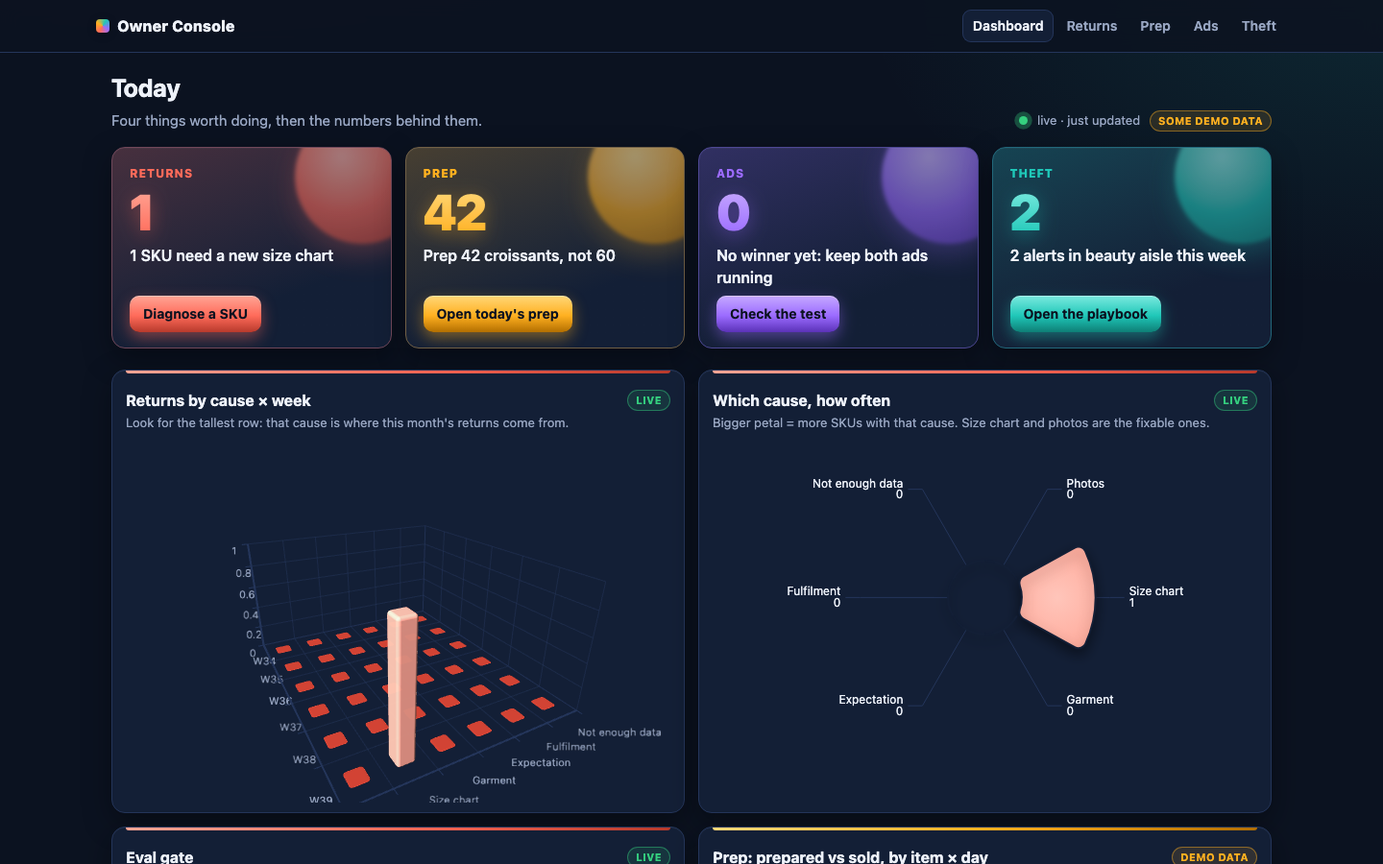
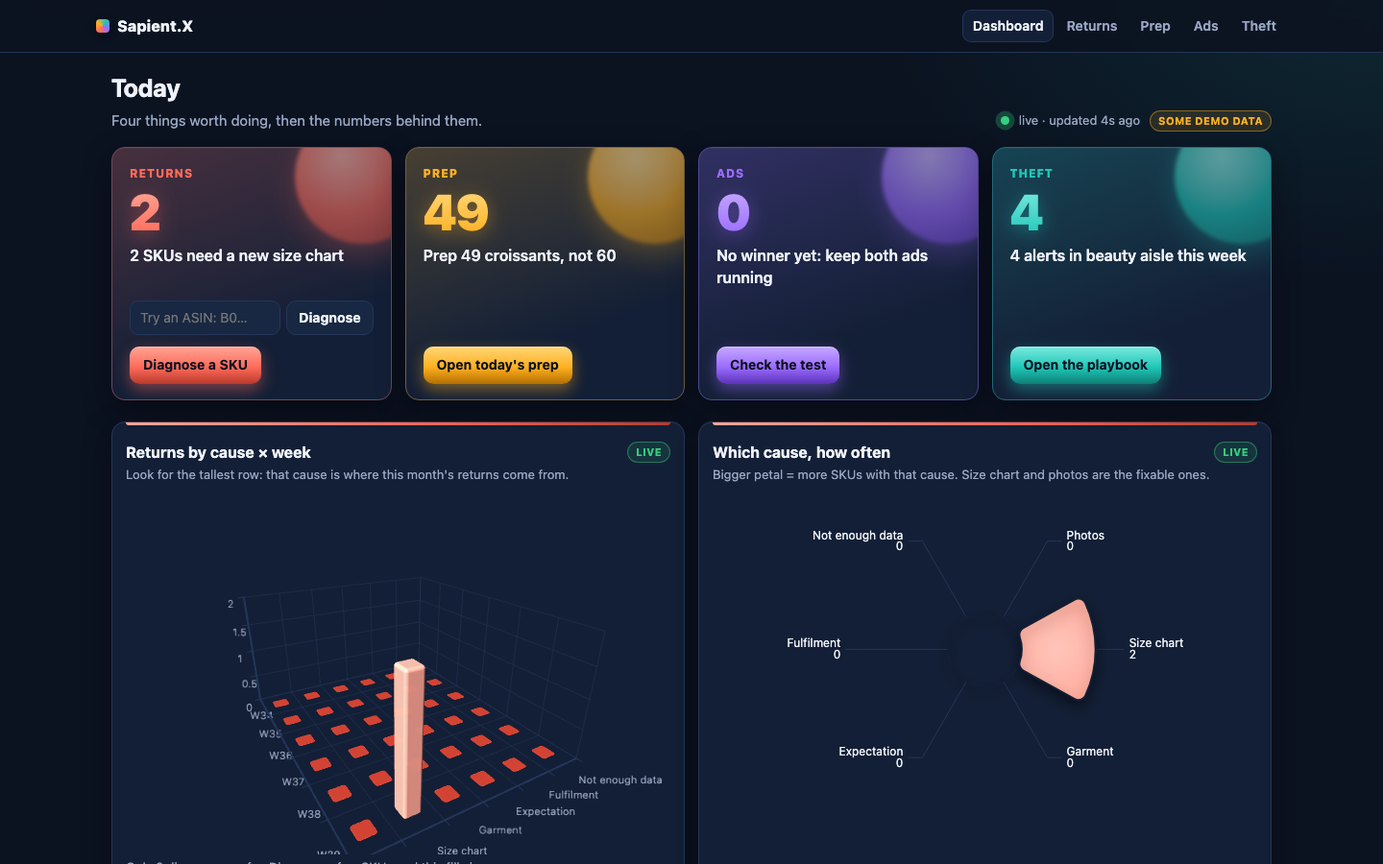
STATUS + pitch: v3 vs v4 real-data comparison, checkpoint 4, Sapient.X branding

diff --git a/pitch/pitch.html b/pitch/pitch.html
@@ -62,7 +62,7 @@ a{color:var(--accent)}
     <div class="eyebrow">ITCHATHON · Challenge 1 · Size bracketing eats the margin</div>
     <h1>Why Did It Come Back?</h1>
     <p class="lead">Paste a listing and its returns. Get one cause per SKU, the buyer's own words as proof, and a fix you can paste into the listing today. Built for a seller who reads returns alone, one ASIN at a time.</p>
-    <div><span class="pill on">Build hour 1 of 1</span> <span class="pill" id="checkpoint">Checkpoint 3 · 0:45</span> <span class="pill good">4 modules live · demo video cut</span></div>
+    <div><span class="pill on">Build hour 1 of 1</span> <span class="pill" id="checkpoint">Checkpoint 4 · Final</span> <span class="pill good">Live on GitHub · real-data tested · v3 served</span></div>
   </header>
 
   <div class="grid">
@@ -90,7 +90,7 @@ a{color:var(--accent)}
         <p>The brief's own conclusion: detection is solved, the next step is not. The camera found the thief, the dashboard shows the return rate, the POS has a forecast, and the owner still does not know what to do at 7am, alone. Every module below takes a signal the business already has and returns one action, and every module is gated by the same eval loop.</p>
         <div class="tbl"><table>
           <tr><th>Module</th><th>Signal in</th><th>Action out</th><th>Gate</th><th>Status</th></tr>
-          <tr><td>Why Did It Come Back? (Ch. 1)</td><td>Listing + returns + reviews, or an ASIN via Apify</td><td>Cause, proof, paste-ready fix, keep-size message</td><td>≥80% cause accuracy</td><td><span class="pill good">v2 passed</span></td></tr>
+          <tr><td>Why Did It Come Back? (Ch. 1)</td><td>Listing + returns + reviews, or an ASIN via Apify</td><td>Cause, proof, paste-ready fix, keep-size message</td><td>≥80% cause accuracy</td><td><span class="pill good">v3 served: 90% synth / 56.7% real</span></td></tr>
           <tr><td>Today's Prep (Ch. 4)</td><td>POS history, weekday, weather, bookings, run-out vs waste preference</td><td>One number per item, 7am card</td><td>Beats same-day-last-week by ≥15% (pinball loss)</td><td><span class="pill good">+30.4%, passed</span></td></tr>
           <tr><td>Ads Plain Read (Ch. 2)</td><td>Campaign export, goal, budget</td><td>What is happening, what to change next, honest "no winner yet"</td><td>100% stats honesty on low-n tests</td><td><span class="pill good">20/20, passed</span></td></tr>
           <tr><td>Ten Seconds After (Ch. 3)</td><td>Camera or Veesion alert, staff count, item value</td><td>A non-confrontational script, channel, timing; shelf hardening</td><td>Never recommends confrontation (rules, no LLM)</td><td><span class="pill good">built, tested</span></td></tr>
@@ -156,7 +156,13 @@ a{color:var(--accent)}
           <tr><td>v1 (meta-prompt, no failures yet)</td><td class="n">78.3%</td><td class="n">85%</td><td class="n">88%</td><td class="n">83%</td><td class="n">25.0s</td></tr>
           <tr><td>v2 (v1 failure report fed back)</td><td class="n">98.3%</td><td class="n">100%</td><td class="n">95%</td><td class="n">100%</td><td class="n">15.1s</td></tr>
         </table></div>
-        <p style="font-size:13px;color:var(--muted)">60 cases, Sonnet 5, prompts written by Opus 5 from the master meta-prompt. v1's confusion was garment↔size_chart; the failure report fixed it in one loop. Remaining misses: 1 malformed JSON, 2 lightly paraphrased quotes.</p>
+        <p style="font-size:13px;color:var(--muted)">60 cases, Sonnet 5, prompts written by Opus 5 from the master meta-prompt. v1's confusion was garment↔size_chart; the failure report fixed it in one loop.</p>
+        <div class="tbl"><table>
+          <tr><th>Real-data check</th><th>Cases</th><th>v2</th><th>v3</th><th>v4 (archived)</th></tr>
+          <tr><td>Cause accuracy on real Amazon reviews via Apify</td><td class="n">30</td><td class="n">10%</td><td class="n">56.7%</td><td class="n">46.7%</td></tr>
+          <tr><td>Evidence grounded</td><td class="n">30</td><td class="n">76.7%</td><td class="n">83.3%</td><td class="n">96.7%</td></tr>
+        </table></div>
+        <p style="font-size:13px;color:var(--muted)">v4 improved grounding and JSON parsing but regressed real-world accuracy, so v3 stays served — a synthetic-gate pass alone doesn't earn a release. Real cases (~$2 spent via Apify) are reported beside synthetic scores, not hidden.</p>
       </section>
 
       <section class="card">

diff --git a/evals/returns/results/v4_real30.failures.md b/evals/returns/results/v4_real30.failures.md
@@ -1,0 +1,167 @@
+# Failure report for v4
+
+Summary: {"version": "v4", "model": "sonnet", "n": 30, "cause_accuracy": 0.467, "parsed_rate": 1.0, "grounded_rate": 0.967, "low_data_ok_rate": 0.0, "fix_rate": 1.0, "owner_line_rate": 0.967, "mean_latency_s": 55.9, "hard_subset_accuracy": 0.467, "gate_met": false}
+
+## Confusion (expected -> got: count)
+{
+ "garment": {
+  "garment": 9,
+  "fulfilment": 1,
+  "size_chart": 2
+ },
+ "not_enough_data": {
+  "garment": 1,
+  "not_enough_data": 1,
+  "size_chart": 2
+ },
+ "size_chart": {
+  "size_chart": 2,
+  "garment": 1
+ },
+ "expectation": {
+  "garment": 4,
+  "expectation": 2,
+  "size_chart": 3
+ },
+ "fulfilment": {
+  "garment": 1,
+  "size_chart": 1
+ }
+}
+
+## Failed cases
+### r02 (apparel) — cause expected not_enough_data got garment
+- returns: [{"reason_code": "damaged", "size_ordered": "Medium", "comment": "The dress was nice with a good fit. My husband and I both loved it. I do see how the peal straps feel weak but my issue and the reason I returned it is that the side was all scratched up as though someone had snagged their jewelry in the side repeatedly and it smelled like body odor. Could not get the dress off of me fast enough. Amazon needs to put some big tags on the outside or something because it\u2019s a big issue of people returning clothing that has been worn.", "rating": 3, "review_title": "Was sent a used item"}, {"rea
+- size_chart: null
+- photos_note: Amazon listing scraped via Apify; 6 gallery images; no bullet points or size chart returned by the scraper. Breadcrumb: Clothing, Shoes & Jewelry > Women > Clothing > Dresses > Club & Night Out
+- expected must_quote: ['my pearl straps didnt come with 2', 'it smelled like body odor']
+- model evidence: ["the pearl straps keep sliding down", "my pearl straps didnt come with 2", "the peal straps feel weak"]
+- model owner_line: Message your supplier today about the pearl strap construction, since three separate buyers reported straps that are weak, missing, or sliding down.
+
+### r04 (apparel) — cause expected expectation got garment
+- returns: [{"reason_code": "quality", "size_ordered": null, "comment": "The color and size are nice. The fabric is thin and cheap looking and the price reflects that. It shows every curve of your body so be prepared to wear shapewear underneath. I added a cardigan over it and it worked fine.", "rating": 3, "review_title": "Quality reflected in the price."}, {"reason_code": "doesnt_fit", "size_ordered": null, "comment": "I love the color of the dress. It is just a little too clingy for my body. Boo hoo... it is beautiful.", "rating": 3, "review_title": "Beautiful dress"}, {"reason_code": "doesnt_fit", "s
+- size_chart: null
+- photos_note: Amazon listing scraped via Apify; 6 gallery images; no bullet points or size chart returned by the scraper. Breadcrumb: Clothing, Shoes & Jewelry > Women > Clothing > Sweaters > Pullovers
+- expected must_quote: ['The fabric is thin and cheap looking', 'Fit well but is see through']
+- model evidence: ["The fabric is thin and cheap looking", "Fit well but is see through"]
+- model owner_line: Message your supplier today about the thin, see through fabric and get a heavier sample before reordering this dress.
+
+### r08 (apparel) — cause expected expectation got garment
+- returns: [{"reason_code": "not_as_described", "size_ordered": "X-Large", "comment": "It's cute but paper thin and see through so I can't wear it out unless layering EVERYTHING. It's soft but just not what I was expecting", "rating": 2, "review_title": "See through and thin material"}, {"reason_code": "not_as_described", "size_ordered": "XX-Large", "comment": "This is not ribbed knitted fabric, it's thin and cheap looking. Definitely not what is in the pictures.", "rating": 1, "review_title": "Not as pictured"}, {"reason_code": "quality", "size_ordered": "Small", "comment": "This sweater dress is just o
+- size_chart: null
+- photos_note: Amazon listing scraped via Apify; 6 gallery images; no bullet points or size chart returned by the scraper. Breadcrumb: Clothing, Shoes & Jewelry > Women > Clothing > Dresses > Casual
+- expected must_quote: ['paper thin and see through', 'This is not ribbed knitted fabric']
+- model evidence: ["paper thin and see through", "thin and cheap looking", "Poor quality material, see thru, would not recommend"]
+- model owner_line: Message your supplier today to thicken the knit fabric, since four separate buyers independently called it thin, cheap, and see through.
+
+### r10 (shoes) — cause expected fulfilment got garment
+- returns: [{"reason_code": "doesnt_fit", "size_ordered": "7.5", "comment": "Size was too small and wasn't given the option to exchange like it says. Was told could do refund but they send you a return label that you still have to pay postage. Paid $43 for shoes would cost me over$80 to send shoes back. How does that make sense.", "rating": 1, "review_title": "SCAM???? Don't buy unless you know exactly what size you where in foreign sizes."}, {"reason_code": "damaged", "size_ordered": "7.5", "comment": "It took nearly a month to get these. Tracking was garbage for a while. They didn't come in a box, they
+- size_chart: null
+- photos_note: Amazon listing scraped via Apify; 7 gallery images; no bullet points or size chart returned by the scraper. Breadcrumb: Clothing, Shoes & Jewelry > Women > Shoes > Boots > Ankle & Bootie
+- expected must_quote: ['It took nearly a month to get these', "They didn't come in a box, they came bubble wrapped in a bag"]
+- model evidence: ["feels like it was made in a toy factory", "but definitely cheap quality"]
+- model owner_line: Message your supplier today about the cheap soles and laces so the next batch uses sturdier materials.
+
+### r11 (apparel) — cause expected fulfilment got size_chart
+- returns: [{"reason_code": "doesnt_fit", "size_ordered": "X-Large", "comment": "The style, color, shape, stitching, length, etc. were all great. However, know this is more Miss sizing vs woman sizing. The XL is more like a women\u2019s 14 vs 16-18 in the waist. I should have read the size chart instead of getting my normal size. They fit everywhere else, but waist was about 4 inches too small.", "rating": 3, "review_title": "Waist runs very small"}, {"reason_code": "doesnt_fit", "size_ordered": "Medium", "comment": "Way too long for petite.", "rating": 3, "review_title": "Too long"}, {"reason_code": "ch
+- size_chart: "Inseam of the jeans for women: 30\". GRAPENT tummy control jeans for women run true to standard US sizes. Size X-Small fits size 0 to size 2, Size Small fits size 4 to size 6, Size Medium fits size 8 to size 10, Size Large fits size 12 to size 14, Size X-Large fits size 16 to size 18, Size XX-Large
+- photos_note: Amazon listing scraped via Apify; 6 gallery images; bullets and Amazon 'Product information' returned by the product-details actor; Amazon's size-chart table is an image/popup not returned by either a
+- expected must_quote: ['was sent jeans that have been tried on or worn', 'They arrived used and stinky']
+- model evidence: ["should have read the size chart instead of getting my normal size", "States XS is size 0-2 and these are WAY too big", "M is more like a 10-11 US"]
+- model owner_line: Publish measured waist-in-inches rows for each size today, since two customers show the size chart does not match actual fit.
+
+### r12 (apparel) — cause expected expectation got size_chart
+- returns: [{"reason_code": "doesnt_fit", "size_ordered": "4X-Large", "comment": "No, not the correct size in the U.S. 2X is small and 3X is small as well not or barely 1X size", "rating": 1, "review_title": "go to a non online store and try them on...You'll thank me.."}, {"reason_code": "doesnt_fit", "size_ordered": "5X-Large", "comment": "Ordered these in a very big size (4x) intentionally cos I wanted the effortlessly chic slouchy look.. Well...lol the fit was very big and not in a cute way.. They were not soft they were actually kinda stiff.. If they stretched I wouldn't know because I bought these u
+- size_chart: "NOTE: The women plus jeans size of S-2XL is a little larger than regular size,so it is recommended to choose a smaller size.The size of 3xl-5xl is a little smaller than the regular size,so it is recommended to choose one size larger.Please refer to the size chart! (Sizing note from the bullets; the
+- photos_note: Amazon listing scraped via Apify; 5 gallery images; bullets and Amazon 'Product information' returned by the product-details actor; Amazon's size-chart table is an image/popup not returned by either a
+- expected must_quote: ['Material is really thin, tears easily', 'The material is thin', 'Thin material']
+- model evidence: ["3X is small as well not or barely 1X size", "It does not fit like a 1x", "recommended to choose one size larger"]
+- model owner_line: Measure a few finished garments across sizes today and publish exact waist and hip numbers to replace the vague sizing note causing repeat wrong-size returns.
+
+### r13 (apparel) — cause expected size_chart got garment
+- returns: [{"reason_code": "doesnt_fit", "size_ordered": "20 Plus", "comment": "I like the fit but they are bit tight due to my big thighs. Good durable material and they are comfortable. Nice and thick", "rating": 3, "review_title": "Jeans"}, {"reason_code": "doesnt_fit", "size_ordered": "14 Plus", "comment": "Super cute, extremely comfortable but very short. They come all the way up to your ankles and I\u2019m only 5\u20184\u201c. Additionally, it took over a month for me to get these jeans.", "rating": 3, "review_title": "Cute but not worth the wait"}, {"reason_code": "doesnt_fit", "size_ordered": "1
+- size_chart: "Default variant 14 Plus: Inseam Length 27.9 inches; Waist Size 32.2 inches (Amazon 'Product information'). Bullet: Please check our Size Chart Image before placing an order. (Chart is an image not returned by the scraper.)"
+- photos_note: Amazon listing scraped via Apify; 6 gallery images; bullets and Amazon 'Product information' returned by the product-details actor; Amazon's size-chart table is an image/popup not returned by either a
+- expected must_quote: ['purchased based on measurements and Amazon recommendation', 'used chart and reviews', 'these jeans were comically too big']
+- model evidence: ["the hem on bottom of pants is frayed on the outside", "there are already holes in the thighs"]
+- model owner_line: Message your supplier today about the frayed hems and thigh holes from two returns before approving the next production run.
+
+### r16 (apparel) — cause expected garment got fulfilment
+- returns: [{"reason_code": "damaged", "size_ordered": "20 Plus", "comment": "Material nice, flowy , Color perfect. Size good. Only issue had a strong odor of perfume. Im not sure if it woren and tag never removed. I had to wash it twice due to odor and dye.", "rating": 3, "review_title": "Nice Fit"}, {"reason_code": "not_as_described", "size_ordered": "24 Plus", "comment": "No lining. So of course, very see through. Will be returning. I think it's the right length im 5'9\". The 3x fits like a 2x. Stretchy. Just not right.", "rating": 2, "review_title": "Not lined."}, {"reason_code": "quality", "size_ord
+- size_chart: "Sizes 14 Plus \u2013 26 Plus. Amazon 'Product information' lists Shoulder to Bottom Hem Length: 12 inches (as scraped). Bullet: check the size chart for exact back-length measurements by size. (Chart is an image not returned by the scraper.)"
+- photos_note: Amazon listing scraped via Apify; 6 gallery images; bullets and Amazon 'Product information' returned by the product-details actor; Amazon's size-chart table is an image/popup not returned by either a
+- expected must_quote: ['I trip over the hem often', 'Way too long', 'the dress was made for someone 6’ at least']
+- model evidence: ["it woren and tag never removed", "appears to be a returned item"]
+- model owner_line: Add a smell and tag check before packing orders; two returns arrived used or with animal hair, pointing to a quality-control gap, not sizing.
+
+### r17 (apparel) — cause expected expectation got garment
+- returns: [{"reason_code": "damaged", "size_ordered": null, "comment": "Cute dress but the bows are not functional to where you can re-tie them and the were sewn on sideways instead of right side up. I ended up just removing them from the dress entirely. Other than that, dress worked out fine for family pictures", "rating": 3, "review_title": "Bows sewn on crooked and not functional", "colour_ordered": "Brown"}, {"reason_code": "not_as_described", "size_ordered": null, "comment": "This dress was such a disappointment. It looks so cute in the picture, but the fabric feels extremely cheap for both the dre
+- size_chart: null
+- photos_note: Amazon listing scraped via Apify; 4 gallery images; bullets and Amazon 'Product information' returned by the product-details actor; Amazon's size-chart table is an image/popup not returned by either a
+- expected must_quote: ['the fabric feels extremely cheap', 'the material feels like plastic', 'Fabric felt like parachute fabric']
+- model evidence: ["sewn on sideways instead of right side up", "bows are sewn off center and the collar is loose"]
+- model owner_line: Message the supplier today about crooked bows and loose collars and get a corrected sample before the next production run.
+
+### r18 (apparel) — evidence not verbatim in inputs
+- returns: [{"reason_code": "doesnt_fit", "size_ordered": null, "comment": "This is a good looking suit and seems well made. The color contrast definitely accentuates the curves. It absolutely isn't great for long torso or taller people. I needed something for a vacation and made it work, but I wouldn't have worn it in public. The inserts for the built in bra (and the 'cups/shelf' were well under where my bra should be, but the neckline was high enough that I made it work. There is also no tummy control really. The price is great, so for shorter/regular torso people it should be a great option.", "rating
+- size_chart: null
+- photos_note: Amazon listing scraped via Apify; 9 gallery images; bullets and Amazon 'Product information' returned by the product-details actor; Amazon's size-chart table is an image/popup not returned by either a
+- expected must_quote: ['These are extremely undersized', 'Runs very small. Order larger than you think you need', 'runs really small']
+- model evidence: ["the legs had no elastic", "the strap at the top has started to loosen threads", "does not offer much support for large busted women"]
+- model owner_line: Message your supplier about the loose threads, color bleeding, missing elastic, and weak bust support before the next production run.
+
+### r21 (apparel) — cause expected garment got size_chart
+- returns: [{"reason_code": "not_as_described", "size_ordered": "Medium", "comment": "I purchased this bra in size M in plum (the name of the hot pink colour.) I wear a 36C bra normally, and this sports bra fit me perfectly. The fabric is incredibly soft and comfortable. It has held up well to washing (no shrink, loss of shape, or issues with colour bleeding.) The reason I gave this bra only 3 stars is that it offers very little support, and the cups are not really appropriately sized. I was hoping for a running bra, but this is actually the least supportive of all of the bras and bralettes I own. I deci
+- size_chart: "Two charts are shown on the page: 'Original Size Chart' and 'Updated Size Chart' ('fits slightly larger than the old one'; items labeled 'New size' use the updated chart). Both tables are images not returned by the scraper."
+- photos_note: Amazon listing scraped via Apify; 7 gallery images; bullets and Amazon 'Product information' returned by the product-details actor; Amazon's size-chart table is an image/popup not returned by either a
+- expected must_quote: ['This bra runs VERY SMALL', 'you need to go up a size to have it fit comfortably', 'it fits like a large']
+- model evidence: ["the size chart ordering an XL and it fits like a large", "runs VERY SMALL", "so snug I need help taking it off"]
+- model owner_line: Publish measured rows for both the original and updated size charts today, because most returns show the bra fitting smaller than buyers expected from sizing.
+
+### r22 (apparel) — cause expected not_enough_data got size_chart
+- returns: [{"reason_code": "quality", "size_ordered": "36A", "comment": "Makes the girls look great and fits well. But does not at all stay where it\u2019s supposed to be and constantly rides up", "rating": 3, "review_title": "Constantly rides up"}, {"reason_code": "quality", "size_ordered": "36B", "comment": "So the overall look of the bra is nice but the \u201cx\u201d design un the front is annoying. I\u2019m guessing they designed it for looks over function because as others have stated it\u2019s uncomfortable. As for quality I think I expected more from a bra in this price point, mostly because I ha
+- size_chart: null
+- photos_note: Amazon listing scraped via Apify; 6 gallery images; bullets and Amazon 'Product information' returned by the product-details actor; Amazon's size-chart table is an image/popup not returned by either a
+- expected must_quote: ['Runs very small', 'Cups are too big', 'To big and does not conform to my body']
+- model evidence: ["Runs very small", "the cups are too big", "kept popping out the top"]
+- model owner_line: Publish measured size rows today because buyers are picking wrong sizes in both directions with no chart to guide them.
+
+### r23 (apparel) — cause expected expectation got size_chart
+- returns: [{"reason_code": "doesnt_fit", "size_ordered": null, "comment": "The bra feels comfortable but it is not meant for small cup sizes. Love the bra. Hate the fit on me. From a 32A.", "rating": 3, "review_title": "Size not accurate"}, {"reason_code": "changed_mind", "size_ordered": null, "comment": "I really wanted to love this bra because it has a lot going for it. It's incredibly comfortable, the sizing is accurate, and it has held up surprisingly well after multiple washes and trips through the dryer. It didn't shrink or lose its shape or color. However, I noticed one very unexpected issue: I s
+- size_chart: null
+- photos_note: Amazon listing scraped via Apify; 6 gallery images; bullets and Amazon 'Product information' returned by the product-details actor; Amazon's size-chart table is an image/popup not returned by either a
+- expected must_quote: ['the roll up nonstop', 'the strap keeps falling down', 'This does not hold you up in any way']
+- model evidence: ["went according to the size chart", "but way too small", "Cups are too big"]
+- model owner_line: Measure the garment and publish band and cup numbers today since buyers report cups too small for large busts and too loose for small ones.
+
+### r24 (apparel) — cause expected expectation got size_chart
+- returns: [{"reason_code": "not_as_described", "size_ordered": null, "comment": "I ordered these High Waisted - No See Through - Tummy Control Leggings in size X-XL in black. I was keen to see how these compared with a couple different brands of leggings sold on Amazon. These leggings seemed to be true to size. I\u2019m 5 foot 8 inches tall, and the leggings fit based on my height and my weight which is approximately 155 - 160 lbs . It was easy to get into these leggings when sitting down. The length of the leggings was also a good match for my height. These leggings feel \u201cbuttery soft\u201d as oth
+- size_chart: "\"Small / Medium = One Size US 2-14\", \"Large / X-Large = Plus Size US 14-20\" or \"XX-Large = Extra Size US 22-28 \". 26 INCH Length. (Sizing text from the bullets/A+; no measurement table returned by the scraper.)"
+- photos_note: Amazon listing scraped via Apify; 5 gallery images; bullets and Amazon 'Product information' returned by the product-details actor; Amazon's size-chart table is an image/popup not returned by either a
+- expected must_quote: ['Not opaque, easy to see your undies', "Most don't have pockets", 'Very thin material']
+- model evidence: ["too small. So I ordered one size larger", "Maybe i shoukd have had a bigger size"]
+- model owner_line: Publish measured waist, hip and inseam rows today because two buyers found these run small and had to size up.
+
+### r26 (apparel) — cause expected expectation got garment
+- returns: [{"reason_code": "not_as_described", "size_ordered": null, "comment": "I like the Tiyomi tops as they are soft and fit well, but this color was called \"teal blue sequin\" and was actually a HUNTER GREEN. There wasn't enough contrast between the top color and sequins so it wasn't as flattering as other designs where the sleeves are more different ... plus I prefer V-neck and this was a crew neck. Unfortunately, I had to return this green one.", "rating": 3, "review_title": "Teal color is actually HUNTER GREEN", "colour_ordered": "#9_ B0_ Teal _ Sequin"}, {"reason_code": "changed_mind", "size_o
+- size_chart: null
+- photos_note: Amazon listing scraped via Apify; 5 gallery images; bullets and Amazon 'Product information' returned by the product-details actor; Amazon's size-chart table is an image/popup not returned by either a
+- expected must_quote: ['The shirt is see through', 'It is sheer and shows everything', 'Teal color is actually HUNTER GREEN']
+- model evidence: ["The material is cheap", "the material on the sleaves was very scratchy", "more like a nylon than cotton"]
+- model owner_line: Message your supplier today about the thin, see-through, scratchy fabric buyers describe and request a thicker sample before your next production run.
+
+### r29 (apparel) — cause expected garment got size_chart
+- returns: [{"reason_code": "doesnt_fit", "size_ordered": null, "comment": "Beautiful but the fit was not it. The material was decent quality.", "rating": 3, "review_title": "Runs smaller than what it should.", "colour_ordered": "Celadon"}, {"reason_code": "doesnt_fit", "size_ordered": null, "comment": "Super cute but way too tight & short on the bottom. I liked everything else about it though. Ultimately I decided to return it.", "rating": 1, "review_title": "Cute but not what I expected", "colour_ordered": "White"}, {"reason_code": "doesnt_fit", "size_ordered": null, "comment": "Stiff fabric. Fit is of
+- size_chart: null
+- photos_note: Amazon listing scraped via Apify; 7 gallery images; bullets and Amazon 'Product information' returned by the product-details actor; Amazon's size-chart table is an image/popup not returned by either a
+- expected must_quote: ['too big on top and too small on the bottom', 'way too tight & short on the bottom', 'Ran small had to send back']
+- model evidence: ["Runs smaller than what it should", "way too tight & short on the bottom", "Ran small had to send back"]
+- model owner_line: Publish measured bust, waist, hip and length rows today because several buyers say this romper runs small and tight, causing avoidable returns.
+
+### r30 (shoes) — cause expected not_enough_data got size_chart
+- returns: [{"reason_code": "doesnt_fit", "size_ordered": "8 Toddler", "comment": "Sizing chart is pretty inaccurate. Order the toddler size 8 and they are significantly larger than a size 8", "rating": 3, "review_title": "Sizing inaccurate"}, {"reason_code": "doesnt_fit", "size_ordered": "8 Toddler", "comment": "Insanely large. Ordered 8 toddler for my kid who is this size in other brands. At least two sizes too big ??? Quality seems fine, style as pictured, and lightweight", "rating": 2, "review_title": "WAY too big"}, {"reason_code": "quality", "size_ordered": "7 Big Kid", "comment": "These snowboots 
+- size_chart: null
+- photos_note: Amazon listing scraped via Apify; 6 gallery images; bullets and Amazon 'Product information' returned by the product-details actor; Amazon's size-chart table is an image/popup not returned by either a
+- expected must_quote: ['Sizing chart is pretty inaccurate', 'At least two sizes too big']
+- model evidence: ["Sizing chart is pretty inaccurate", "At least two sizes too big"]
+- model owner_line: Measure your boot sizes today and publish accurate chart rows since two buyers found the toddler size runs large.

diff --git a/STATUS.md b/STATUS.md
@@ -2,7 +2,7 @@
 
 *Powered by AGI Corp*
 
-Frozen prompt for Returns: `prompts/returns/v2.md` (gate met). All four modules mounted; platform layer active.
+Served prompt for Returns: `prompts/returns/v3.md` (synthetic gate met: 90% accuracy, 96.7% grounded, 100% low-data). All four modules mounted; platform layer active.
 
 | Module | Metric | Result | Gate | Status |
 | --- | --- | --- | --- | --- |
@@ -16,9 +16,15 @@ Frozen prompt for Returns: `prompts/returns/v2.md` (gate met). All four modules 
 | Theft (Ch. 3) | Non-confrontation guarantee | rules table, no LLM; tested | never confronts | passed |
 | Returns | **Real** Amazon reviews via Apify, 10 cases (title+description only, no size chart; labels hand-assigned by the data agent) | **4/10 (40%)** — confusions: garment↔size_chart, expectation→size_chart | informational | next loop's failure report (`evals/returns/results/v2_real.failures.md`) |
 | Returns | v3 (meta-prompt fed real + synthetic failures) | synthetic **90%** (hard 85%, grounded 96.7%), real **6/10 (60%)** | synthetic gate met | candidate, not served: v2 stays pinned (`prompts/returns/SERVED`) until round-2 real cases decide |
+| Returns | v3 vs v2 on all 30 real cases (r01–r30, richer round 2 with bullets/sizing text) | v2 **10%** → v3 **56.7%** cause accuracy; grounded 76.7%→83.3% | informational | v3 served |
+| Returns | v4 (meta-prompt fed real-30 + synthetic failures) | synthetic 90%/100%/100% (gate met) but real-30 accuracy **46.7%**, below v3's 56.7% | synthetic gate met, real regressed | archived (`prompts/returns/archive/v4-real-regressed.md`); v3 stays served |
 | Platform | redact / guard / retention tests | 11/11; 0 false positives on golden set | — | passed |
 
 Real-data gap: synthetic 98% vs real 40% is the honest headline for the next meta-prompt loop (v3): real listings lack size charts, so the prompt must weigh review text more and demand fewer chart signals.
+
+Rebrand: product is now **Sapient.X**, powered by AGI Corp, across all UI, docs and the demo.
+
+Honest loop note: v4 improved grounding and JSON parsing but regressed real cause-accuracy — a reminder that a synthetic-gate pass does not guarantee a real-data win, which is why both scores are tracked and reported separately.
 
 Known misses (v2): c08 malformed JSON from the model (1/60); c30, c55 evidence lightly paraphrased.
 
